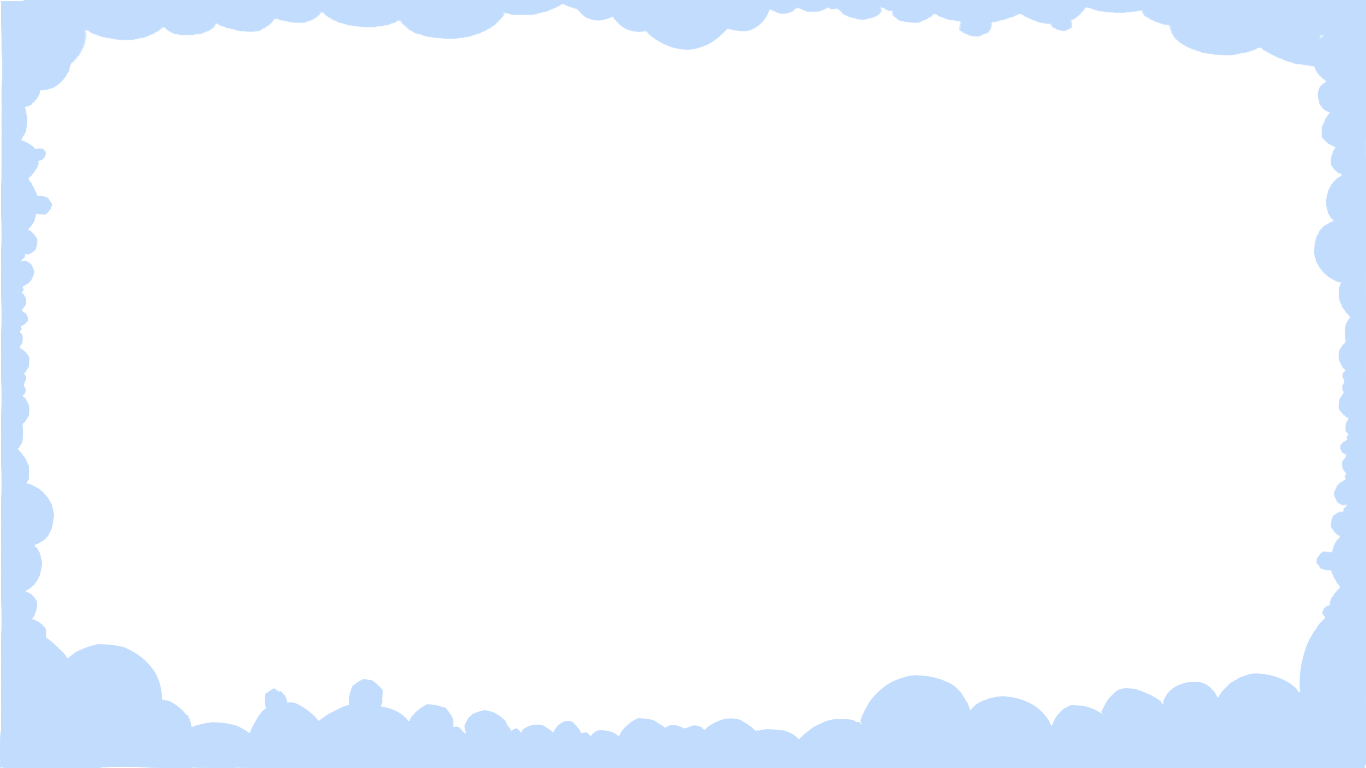
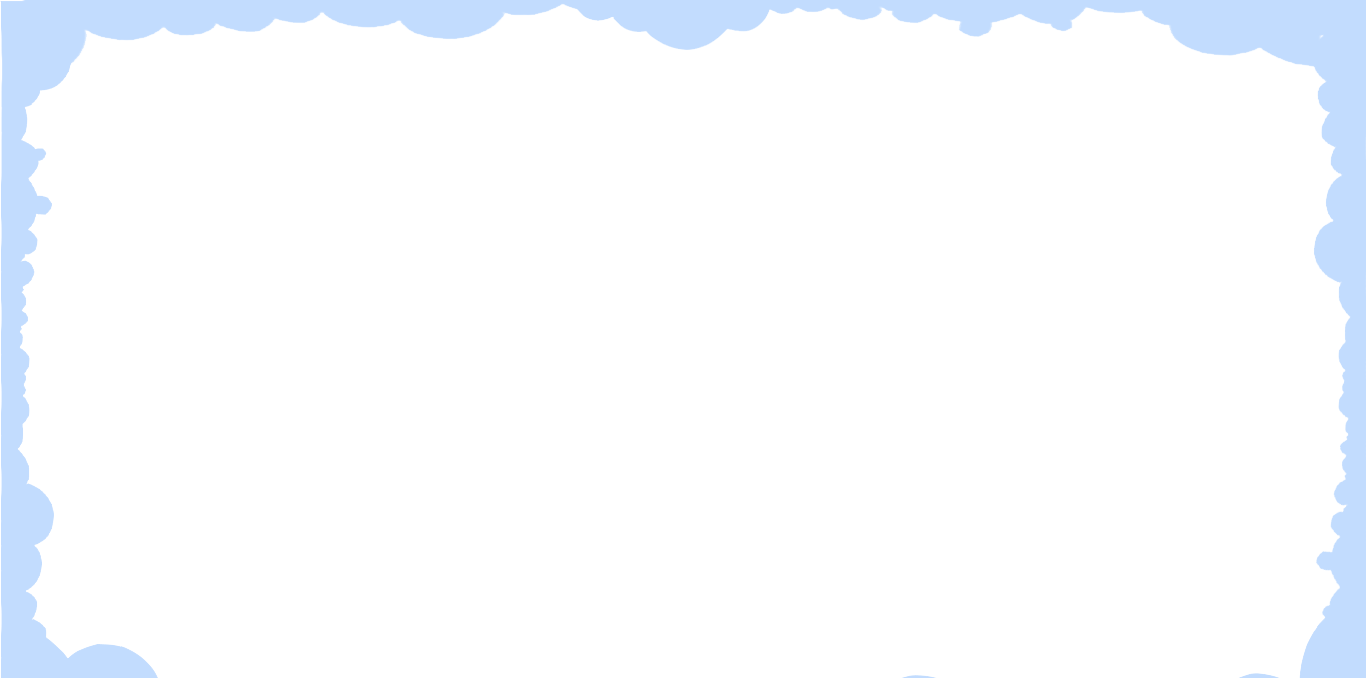
img update

diff --git a/hoz/static/css/hoz.css b/hoz/static/css/hoz.css
@@ -5,7 +5,7 @@ body {
 }
 
 .first-page {
-    background: url(../img/foam.png);
+    background: url(../img/foam.png) no-repeat;
     height: 100%;
 }
 
